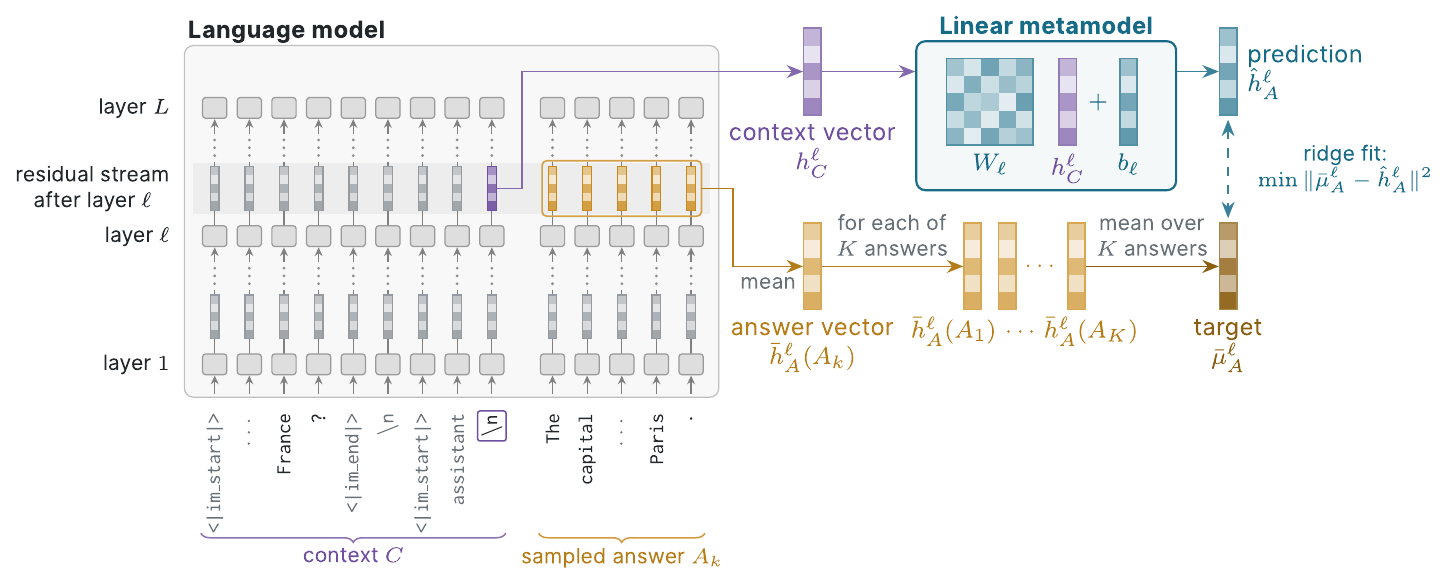
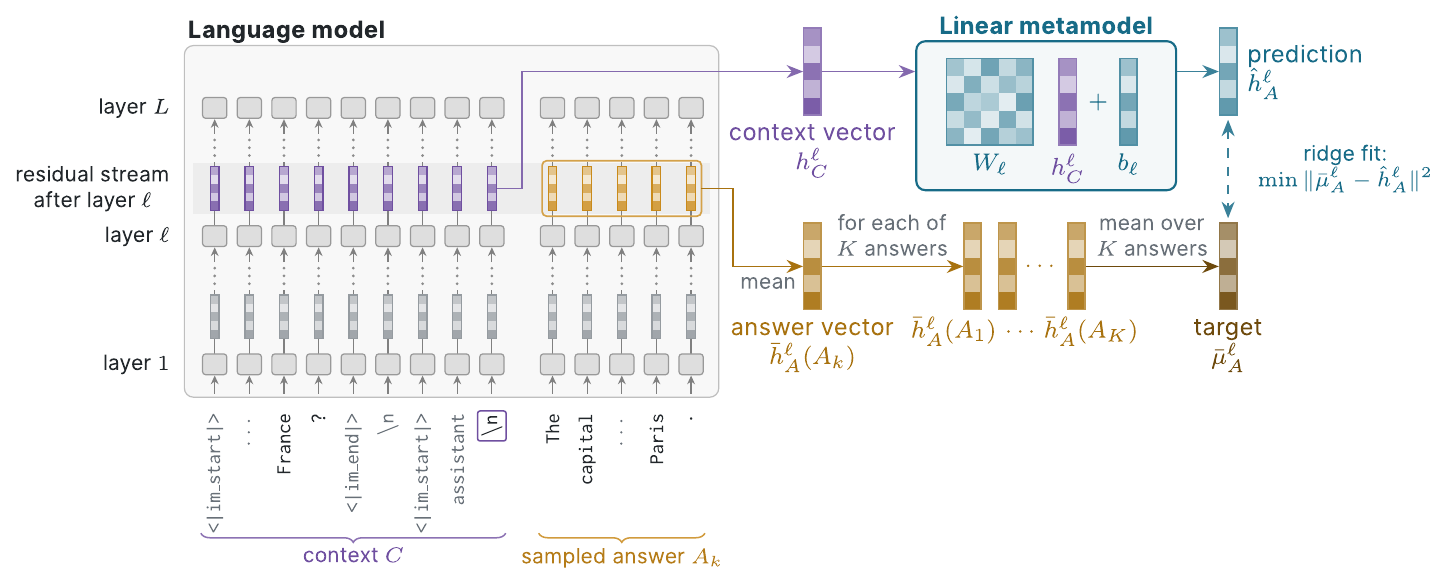
paper fig1 rev 13: all context states violet, amber ramp for answer states / mean answer vectors / target (TikZ source + preview PNG)
Generated with [Claude Code](https://claude.ai/code)
via [Happy](https://happy.engineering)

diff --git a/docs/paper_context_answer_map/fig1_schematic.tex b/docs/paper_context_answer_map/fig1_schematic.tex
@@ -1,4 +1,4 @@
-% Figure 1: context-to-answer prediction pipeline (rev 12, 2026-09-03).
+% Figure 1: context-to-answer prediction pipeline (rev 13, 2026-09-03).
 % Compile standalone: pdflatex fig1_schematic.tex
 % THEN convert text to outlines before copying to Overleaf (REQUIRED):
 %   gs -q -dNOPAUSE -dBATCH -sDEVICE=pdfwrite -dNoOutputFonts -dCompatibilityLevel=1.5 \
@@ -23,10 +23,12 @@
 % vector sits on the "\n" token after "assistant", token id 198).
 % Palette = paper palette (c2a_plot_style.py): ink #22272B, muted #687078, linear teal
 % #176B87. Two text sizes: 8 pt (names) and 7 pt.
-% Side coding: context side violet #6F4FA0 (final context token, h_C, predictor input);
-% answer side amber #C98A1B (answer tokens' states, answer vectors); the TARGET, the
-% mean over the K answer vectors, is the darker amber #8C5E10 (rev 12, Thomas:
-% "a different darker related color"). The prediction stays teal, the predictor's output.
+% Side coding (rev 13, Thomas): every context-side state and vector is violet #6F4FA0
+% (all context tokens' states after layer l, h_C, the predictor input). Answer side is an
+% amber ramp that darkens with aggregation: token states light amber #C98A1B, the mean
+% answer vectors h_A(A_k) / h_A(A_1..K) darker amber #A8720F, the target (mean over K)
+% darkest #6E4A0C. Vectors outside the model use stronger cell shades than the states.
+% The prediction stays teal, the predictor's output.
 % Rev 12 layout (Thomas: "raise it even more"): the model box top is level with the
 % predictor box top; the context tap runs in a 0.6 cm strip above layer L; the top-row
 % vector labels sit BELOW their vectors (prediction label to the right) so nothing
@@ -43,8 +45,9 @@
 \definecolor{muted}{HTML}{687078}
 \definecolor{teal}{HTML}{176B87}
 \definecolor{ctx}{HTML}{6F4FA0}   % context side
-\definecolor{ans}{HTML}{C98A1B}   % answer side
-\definecolor{tgt}{HTML}{8C5E10}   % answer side, aggregated: the target (mean over K)
+\definecolor{ans}{HTML}{C98A1B}   % answer side: token states
+\definecolor{ansv}{HTML}{A8720F}  % answer side: mean answer vectors
+\definecolor{tgt}{HTML}{6E4A0C}   % answer side: the target (mean over K answer vectors)
 \definecolor{paper}{HTML}{FFFFFF}
 
 % ---- big column vector: 5 contiguous SQUARE cells, 0.20 x 1.00 cm -------------------
@@ -137,16 +140,16 @@
 \node[ann, anchor=east, text=ink] at (0.32,2.07) {layer $1$};
 
 % context columns (first template token, an elision, then the exact tail of the prompt)
-\stream{0.80}{tok}{<|im\_start|>}{muted}{40,18,54,26,62}{muted!70}
-\stream{1.20}{tok}{$\cdots$}{muted}{40,18,54,26,62}{muted!70}
-\stream{1.60}{tokink}{France}{muted}{40,18,54,26,62}{muted!70}
-\stream{2.00}{tokink}{?}{muted}{40,18,54,26,62}{muted!70}
-\stream{2.40}{tok}{<|im\_end|>}{muted}{40,18,54,26,62}{muted!70}
-\stream{2.80}{tok}{\textbackslash n}{muted}{40,18,54,26,62}{muted!70}
-\stream{3.20}{tok}{<|im\_start|>}{muted}{40,18,54,26,62}{muted!70}
-\stream{3.60}{tok}{assistant}{muted}{40,18,54,26,62}{muted!70}
+\stream{0.80}{tok}{<|im\_start|>}{ctx}{50,20,70,32,82}{ctx}
+\stream{1.20}{tok}{$\cdots$}{ctx}{50,20,70,32,82}{ctx}
+\stream{1.60}{tokink}{France}{ctx}{50,20,70,32,82}{ctx}
+\stream{2.00}{tokink}{?}{ctx}{50,20,70,32,82}{ctx}
+\stream{2.40}{tok}{<|im\_end|>}{ctx}{50,20,70,32,82}{ctx}
+\stream{2.80}{tok}{\textbackslash n}{ctx}{50,20,70,32,82}{ctx}
+\stream{3.20}{tok}{<|im\_start|>}{ctx}{50,20,70,32,82}{ctx}
+\stream{3.60}{tok}{assistant}{ctx}{50,20,70,32,82}{ctx}
 % the final context token: "\n" after "assistant"; its layer-l state is h_C
-\stream{4.00}{tokink}{\textbackslash n}{ctx}{62,30,80,44,92}{ctx}
+\stream{4.00}{tokink}{\textbackslash n}{ctx}{50,20,70,32,82}{ctx}
 \node[tokink, draw=ctx, line width=0.5pt, rounded corners=0.8pt, inner sep=1.2pt, fill=paper]
   at (4.00,1.54) {\textbackslash n};
 \node[inner sep=0pt, minimum width=0.10cm, minimum height=0.50cm] (hfinal) at (4.00,4.10) {};
@@ -169,13 +172,13 @@
 % Middle: the two vectors read off layer l.  Top row y = 5.45 (context, in the
 % model's top strip), bottom row y = 3.20 (answer, 0.9 below the band at 4.10).
 % ===========================================================================
-\colvec{hc}{7.70}{5.45}{ctx}
+\colvecs{hc}{7.70}{5.45}{ctx}{62,30,80,44,92}
 \node[lbl, text=ctx, anchor=north, align=center] at (7.70,4.89) {context vector\\$h_C^{\ell}$};
 \draw[flow, ctx!85] (hfinal.east) -- (4.35,4.10) -- (4.35,5.45) -- (hc.west);
 
-\colvec{ha}{7.70}{3.20}{ans}
-\node[lbl, text=ans!90!black, anchor=north, align=center] at (7.70,2.64) {answer vector\\$\bar h_A^{\ell}(A_k)$};
-\draw[flow, ans!90!black] (6.42,4.10) -- (6.78,4.10) -- (6.78,3.20) -- (ha.west);
+\colvecs{ha}{7.70}{3.20}{ansv}{62,30,80,44,92}
+\node[lbl, text=ansv, anchor=north, align=center] at (7.70,2.64) {answer vector\\$\bar h_A^{\ell}(A_k)$};
+\draw[flow, ansv] (6.42,4.10) -- (6.78,4.10) -- (6.78,3.20) -- (ha.west);
 \node[ann, anchor=north] at (7.19,3.12) {mean};
 
 % ===========================================================================
@@ -188,7 +191,7 @@
   at (10.40,5.84) {Linear metamodel};
 \matgrid{W}{9.75}{5.10}{teal}
 \node[lbl, text=teal, anchor=north, inner sep=0.5pt] at (9.75,4.53) {$W_\ell$};
-\colvec{hcol}{10.65}{5.10}{ctx}
+\colvecs{hcol}{10.65}{5.10}{ctx}{62,30,80,44,92}
 \node[lbl, text=ctx, anchor=north, inner sep=0.5pt] at (10.65,4.53) {$h_C^{\ell}$};
 \node[lbl, text=teal, inner sep=0pt] at (11.00,5.10) {$+$};
 \colvec{bcol}{11.35}{5.10}{teal}
@@ -199,13 +202,13 @@
 \draw[flow, teal!85] (ridge.east |- hhat.west) -- (hhat.west);
 
 % prediction target: mean over the answer vectors of K sampled answers
-\colvec{a1}{9.55}{3.20}{ans}
-\colvec{a2}{9.95}{3.20}{ans}
-\node[lbl, text=ans!90!black, inner sep=0pt] at (10.35,3.20) {$\cdots$};
-\colvec{aK}{10.75}{3.20}{ans}
-\node[lbl, text=ans!90!black, anchor=north, inner sep=0.5pt] at (10.15,2.65)
+\colvecs{a1}{9.55}{3.20}{ansv}{62,30,80,44,92}
+\colvecs{a2}{9.95}{3.20}{ansv}{62,30,80,44,92}
+\node[lbl, text=ansv, inner sep=0pt] at (10.35,3.20) {$\cdots$};
+\colvecs{aK}{10.75}{3.20}{ansv}{62,30,80,44,92}
+\node[lbl, text=ansv, anchor=north, inner sep=0.5pt] at (10.15,2.65)
   {$\bar h_A^{\ell}(A_1)\,\cdots\,\bar h_A^{\ell}(A_K)$};
-\draw[flow, ans!90!black] (ha.east) -- (a1.west);
+\draw[flow, ansv] (ha.east) -- (a1.west);
 \node[ann, anchor=south] at (8.62,3.28) {for each of\\$K$ answers};
 \colvecs{mu}{12.50}{3.20}{tgt}{62,30,80,44,92}
 \node[lbl, text=tgt, anchor=north, align=center] at (12.50,2.64) {target\\$\bar\mu_A^{\ell}$};
